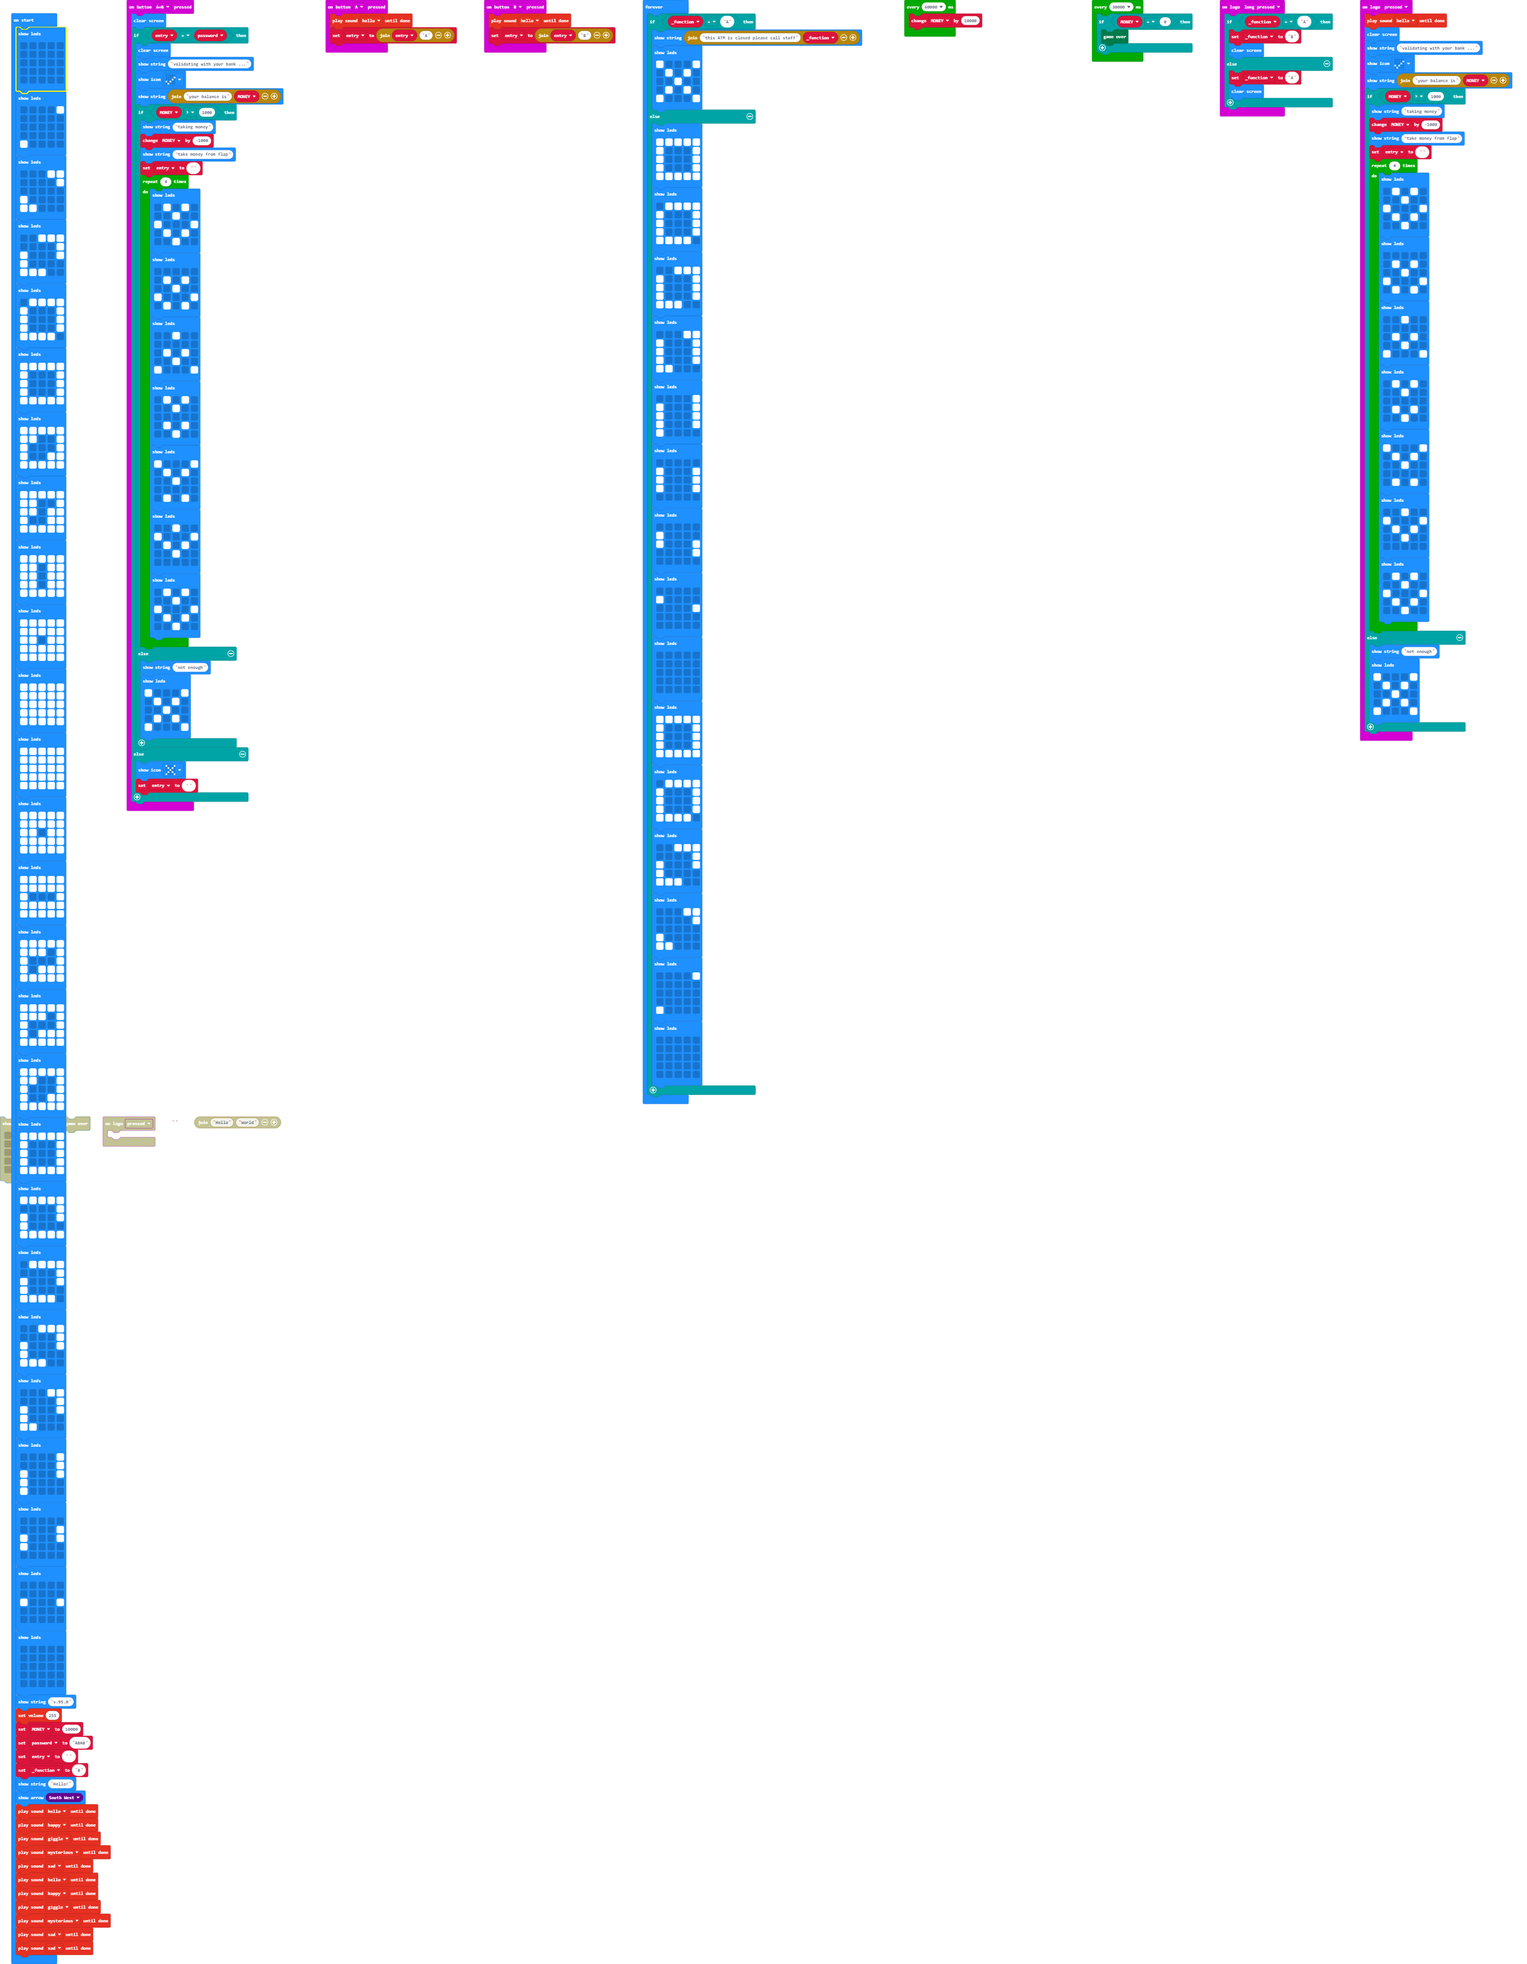
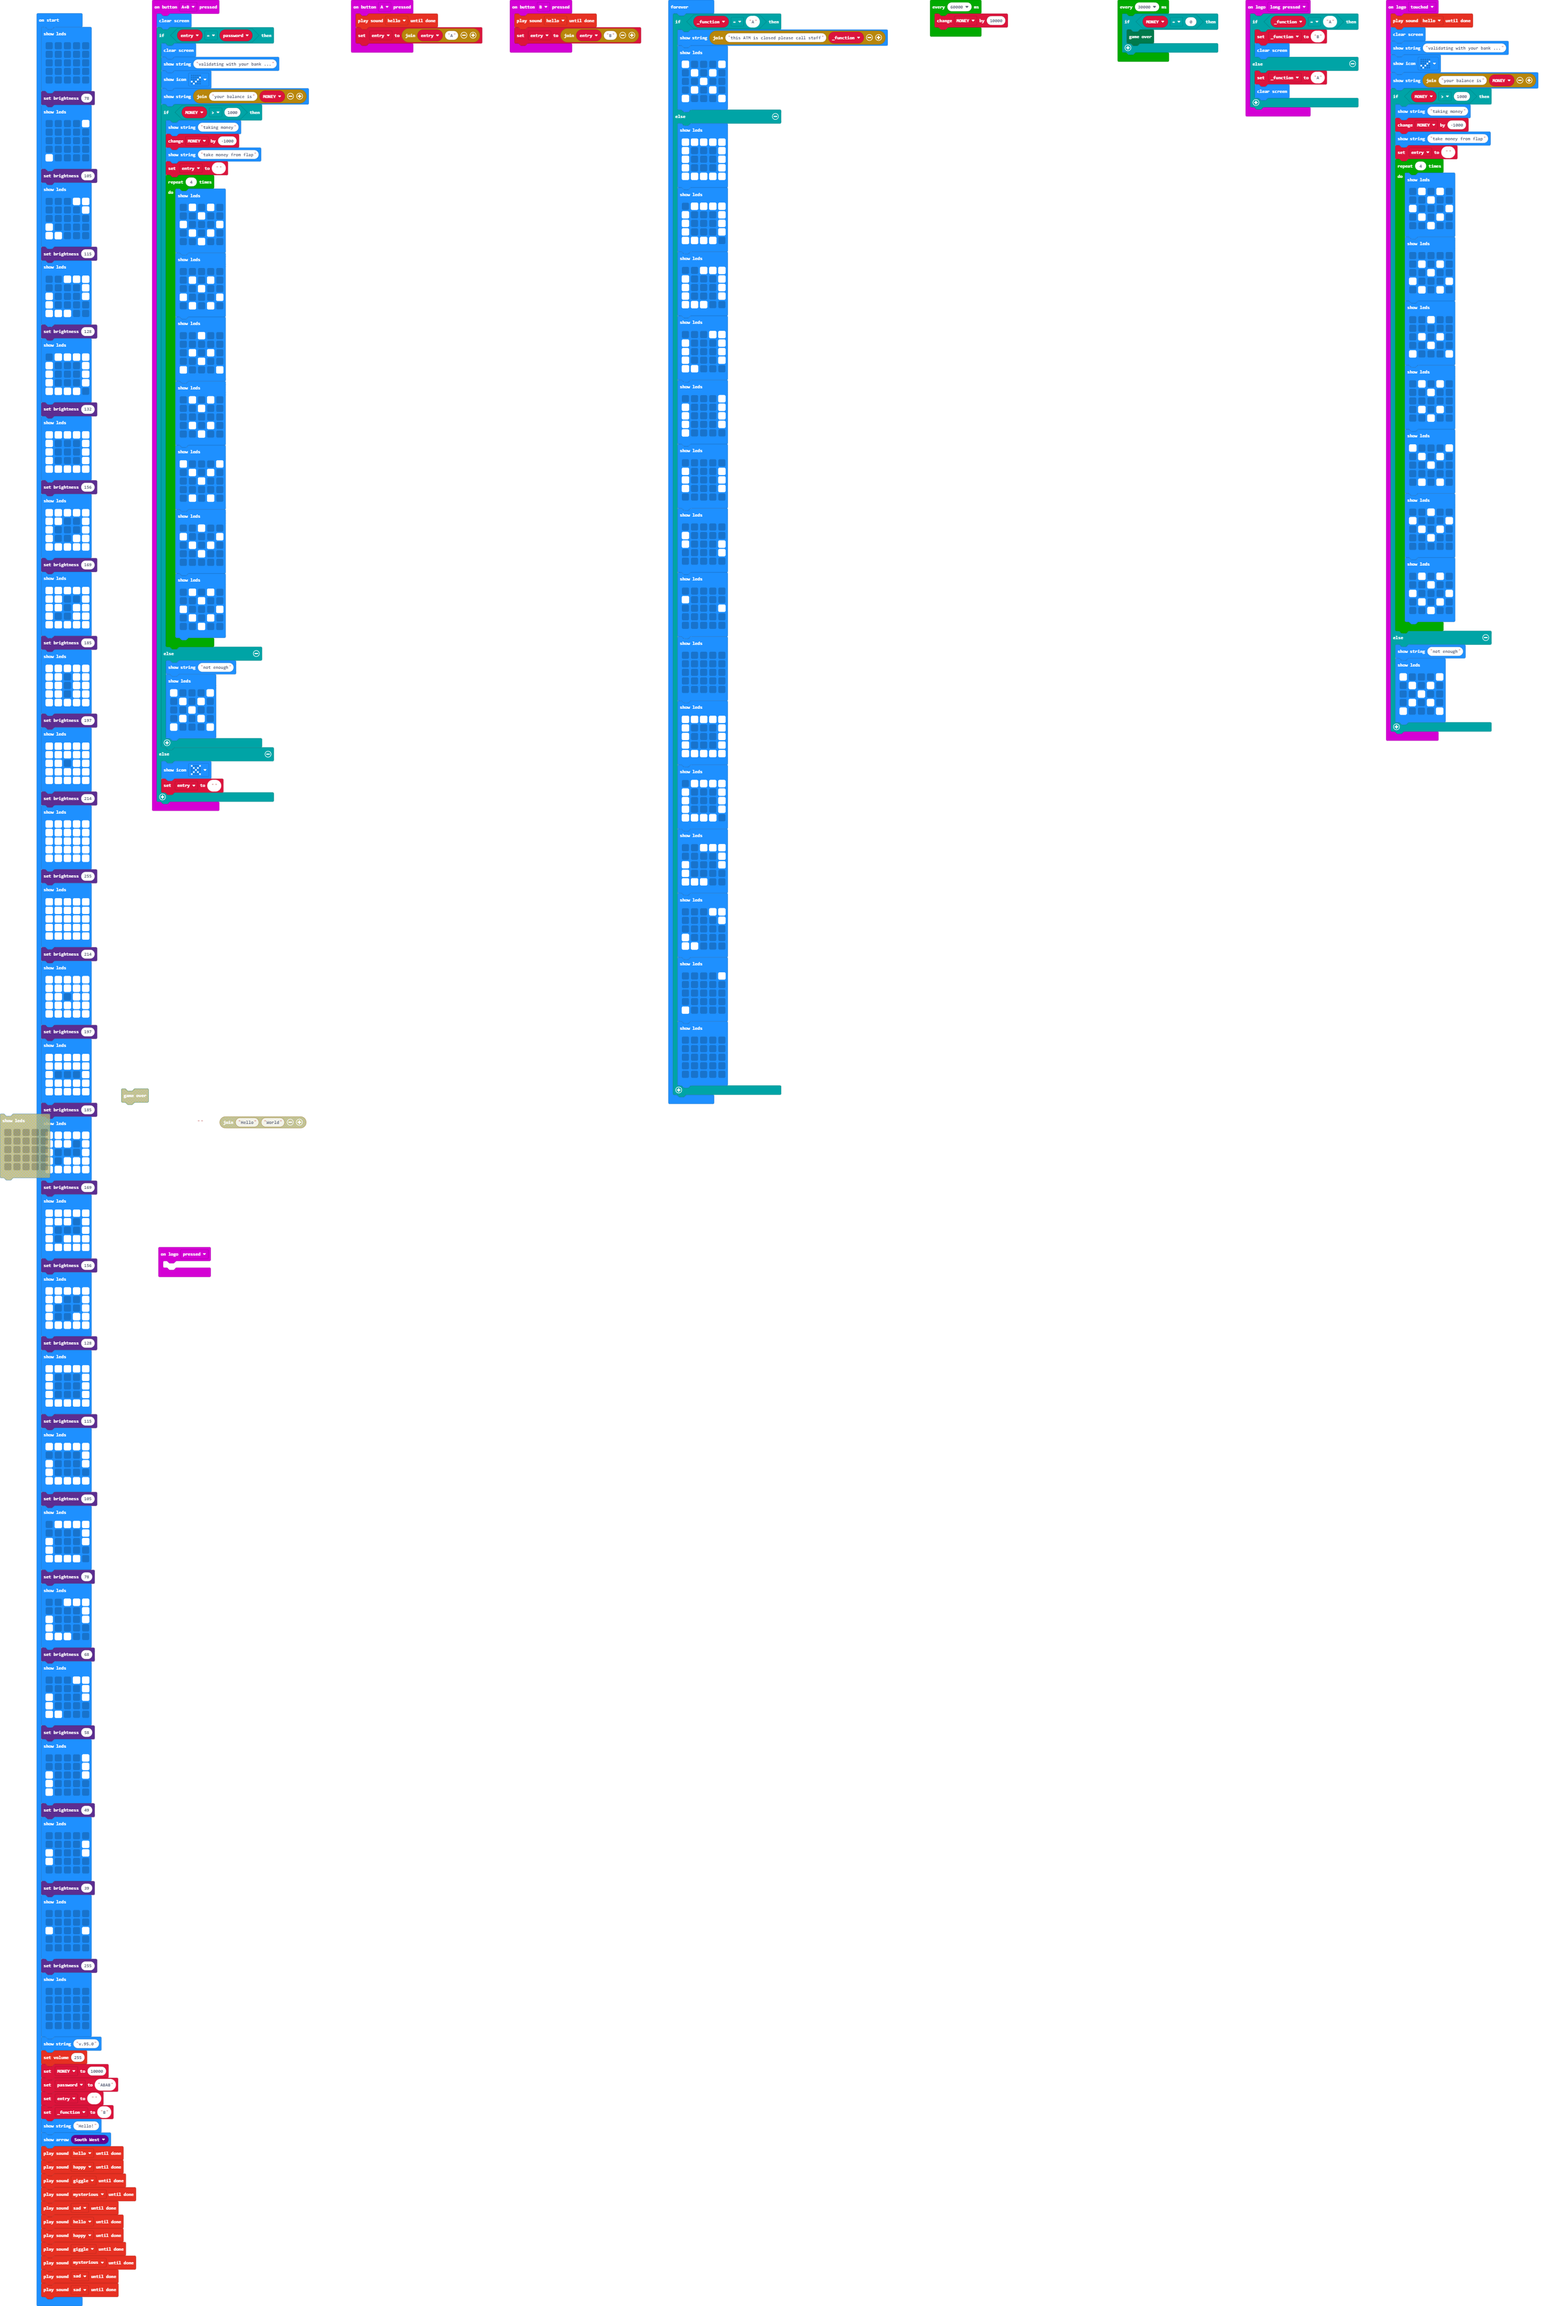
Update main.blocks, main.ts

Changed region(s): [[0.0, 0.0, 0.6506, 1.0], [0.7126, 0.0, 0.9914, 0.4039], [0.1549, 0.466, 0.1859, 0.4971]]

diff --git a/main.ts b/main.ts
@@ -93,7 +93,7 @@ input.onButtonPressed(Button.B, function () {
     soundExpression.hello.playUntilDone()
     entry = "" + entry + "B"
 })
-input.onLogoEvent(TouchButtonEvent.Pressed, function () {
+input.onLogoEvent(TouchButtonEvent.Touched, function () {
     soundExpression.hello.playUntilDone()
     basic.clearScreen()
     basic.showString("validating with your bank ...")
@@ -166,6 +166,9 @@ input.onLogoEvent(TouchButtonEvent.Pressed, function () {
             `)
     }
 })
+input.onLogoEvent(TouchButtonEvent.Pressed, function () {
+	
+})
 let _function = ""
 let entry = ""
 let password = ""
@@ -177,6 +180,7 @@ basic.showLeds(`
     . . . . .
     . . . . .
     `)
+led.setBrightness(78)
 basic.showLeds(`
     . . . . #
     . . . . .
@@ -184,6 +188,7 @@ basic.showLeds(`
     . . . . .
     # . . . .
     `)
+led.setBrightness(105)
 basic.showLeds(`
     . . . # #
     . . . . #
@@ -191,6 +196,7 @@ basic.showLeds(`
     # . . . .
     # # . . .
     `)
+led.setBrightness(115)
 basic.showLeds(`
     . . # # #
     . . . . #
@@ -198,6 +204,7 @@ basic.showLeds(`
     # . . . .
     # # # . .
     `)
+led.setBrightness(128)
 basic.showLeds(`
     . # # # #
     # . . . #
@@ -205,6 +212,7 @@ basic.showLeds(`
     # . . . #
     # # # # .
     `)
+led.setBrightness(132)
 basic.showLeds(`
     # # # # #
     # . . . #
@@ -212,6 +220,7 @@ basic.showLeds(`
     # . . . #
     # # # # #
     `)
+led.setBrightness(156)
 basic.showLeds(`
     # # # # #
     # # . . #
@@ -219,6 +228,7 @@ basic.showLeds(`
     # . . # #
     # # # # #
     `)
+led.setBrightness(169)
 basic.showLeds(`
     # # # # #
     # # . . #
@@ -226,6 +236,7 @@ basic.showLeds(`
     # . . # #
     # # # # #
     `)
+led.setBrightness(185)
 basic.showLeds(`
     # # # # #
     # # . # #
@@ -233,6 +244,7 @@ basic.showLeds(`
     # # . # #
     # # # # #
     `)
+led.setBrightness(197)
 basic.showLeds(`
     # # # # #
     # # # # #
@@ -240,6 +252,7 @@ basic.showLeds(`
     # # # # #
     # # # # #
     `)
+led.setBrightness(214)
 basic.showLeds(`
     # # # # #
     # # # # #
@@ -247,6 +260,7 @@ basic.showLeds(`
     # # # # #
     # # # # #
     `)
+led.setBrightness(255)
 basic.showLeds(`
     # # # # #
     # # # # #
@@ -254,6 +268,7 @@ basic.showLeds(`
     # # # # #
     # # # # #
     `)
+led.setBrightness(214)
 basic.showLeds(`
     # # # # #
     # # # # #
@@ -261,6 +276,7 @@ basic.showLeds(`
     # # # # #
     # # # # #
     `)
+led.setBrightness(197)
 basic.showLeds(`
     # # # # #
     # # # # #
@@ -268,6 +284,7 @@ basic.showLeds(`
     # # # # #
     # # # # #
     `)
+led.setBrightness(185)
 basic.showLeds(`
     # # # # #
     # # # . #
@@ -275,6 +292,7 @@ basic.showLeds(`
     # . # # #
     # # # # #
     `)
+led.setBrightness(169)
 basic.showLeds(`
     # # # # #
     # # # . #
@@ -282,6 +300,7 @@ basic.showLeds(`
     # . # # #
     # # # # #
     `)
+led.setBrightness(156)
 basic.showLeds(`
     # # # # #
     # # . . #
@@ -289,6 +308,7 @@ basic.showLeds(`
     # . . # #
     # # # # #
     `)
+led.setBrightness(128)
 basic.showLeds(`
     # # # # #
     # . . . #
@@ -296,6 +316,7 @@ basic.showLeds(`
     # . . . #
     # # # # #
     `)
+led.setBrightness(115)
 basic.showLeds(`
     # # # # #
     . . . . #
@@ -303,6 +324,7 @@ basic.showLeds(`
     # . . . .
     # # # # #
     `)
+led.setBrightness(105)
 basic.showLeds(`
     . # # # #
     . . . . #
@@ -310,6 +332,7 @@ basic.showLeds(`
     # . . . .
     # # # # .
     `)
+led.setBrightness(78)
 basic.showLeds(`
     . . # # #
     . . . . #
@@ -317,6 +340,7 @@ basic.showLeds(`
     # . . . .
     # # # . .
     `)
+led.setBrightness(68)
 basic.showLeds(`
     . . . # #
     . . . . #
@@ -324,6 +348,7 @@ basic.showLeds(`
     # . . . .
     # # . . .
     `)
+led.setBrightness(58)
 basic.showLeds(`
     . . . . #
     . . . . #
@@ -331,6 +356,7 @@ basic.showLeds(`
     # . . . .
     # . . . .
     `)
+led.setBrightness(49)
 basic.showLeds(`
     . . . . .
     . . . . #
@@ -338,6 +364,7 @@ basic.showLeds(`
     # . . . .
     . . . . .
     `)
+led.setBrightness(39)
 basic.showLeds(`
     . . . . .
     . . . . .
@@ -345,6 +372,7 @@ basic.showLeds(`
     . . . . .
     . . . . .
     `)
+led.setBrightness(255)
 basic.showLeds(`
     . . . . .
     . . . . .
